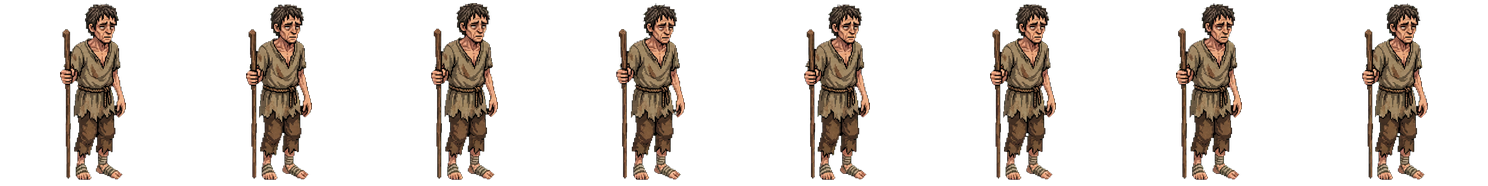
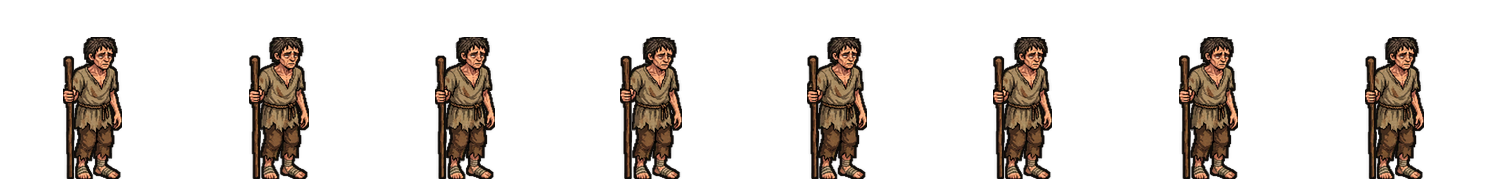
Refine settler sprites and movement behavior

diff --git a/src/rendering/UnitPainter.js b/src/rendering/UnitPainter.js
@@ -279,17 +279,20 @@ export class UnitPainter {
       ? WARRIOR_WALK_FRAME_MS
       : WARRIOR_SPRITE_FRAME_MS;
     const frameIndex = Math.floor(elapsed / frameMs) % frameCount;
+    const facing = getMovementFacing(unit);
 
     ctx.save();
     ctx.imageSmoothingEnabled = true;
+    ctx.translate(x, y);
+    ctx.scale(facing, 1);
     ctx.drawImage(
       spriteSheet,
       frameIndex * WARRIOR_SPRITE_SOURCE_SIZE,
       0,
       WARRIOR_SPRITE_SOURCE_SIZE,
       WARRIOR_SPRITE_SOURCE_SIZE,
-      x - WARRIOR_SPRITE_DRAW_SIZE / 2,
-      y - WARRIOR_SPRITE_DRAW_SIZE + 8,
+      -WARRIOR_SPRITE_DRAW_SIZE / 2,
+      -WARRIOR_SPRITE_DRAW_SIZE + 8,
       WARRIOR_SPRITE_DRAW_SIZE,
       WARRIOR_SPRITE_DRAW_SIZE,
     );
@@ -551,17 +554,20 @@ export class UnitPainter {
       ? SETTLER_WALK_FRAME_MS
       : SETTLER_SPRITE_FRAME_MS;
     const frameIndex = Math.floor(elapsed / frameMs) % frameCount;
+    const facing = getMovementFacing(unit);
 
     ctx.save();
     ctx.imageSmoothingEnabled = true;
+    ctx.translate(x, y);
+    ctx.scale(facing, 1);
     ctx.drawImage(
       spriteSheet,
       frameIndex * SETTLER_SPRITE_SOURCE_SIZE,
       0,
       SETTLER_SPRITE_SOURCE_SIZE,
       SETTLER_SPRITE_SOURCE_SIZE,
-      x - SETTLER_SPRITE_DRAW_SIZE / 2,
-      y - SETTLER_SPRITE_DRAW_SIZE + 8,
+      -SETTLER_SPRITE_DRAW_SIZE / 2,
+      -SETTLER_SPRITE_DRAW_SIZE + 8,
       SETTLER_SPRITE_DRAW_SIZE,
       SETTLER_SPRITE_DRAW_SIZE,
     );
@@ -1217,4 +1223,20 @@ function loadImage(src) {
 
 function isImageReady(image) {
   return Boolean(image?.complete && image.naturalWidth > 0);
+}
+
+function getMovementFacing(unit) {
+  const segment = unit.movementSegment;
+
+  if (!segment) {
+    return unit.facingX || 1;
+  }
+
+  const isoX = segment.to.column - segment.from.column - (segment.to.row - segment.from.row);
+
+  if (isoX === 0) {
+    return unit.facingX || 1;
+  }
+
+  return isoX < 0 ? -1 : 1;
 }

diff --git a/src/units/UnitManager.js b/src/units/UnitManager.js
@@ -19,6 +19,7 @@ const RECOVERY_RADIUS = 2;
 const RECOVERY_TICK_MS = 1800;
 const RECOVERY_PAUSE_MS = 260;
 const SPRITE_WARRIOR_MOVE_MULTIPLIER = 1.55;
+const SPRITE_SETTLER_MOVE_MULTIPLIER = 1.55;
 const ATTACK_OFFSETS = [
   { column: 1, row: 0 },
   { column: -1, row: 0 },
@@ -2004,6 +2005,7 @@ export class UnitManager {
       elapsed: 0,
       duration,
     };
+    unit.facingX = getMovementFacingX(unit.movementSegment);
   }
 
   getNearbyPassableTile(origin, radius) {
@@ -2706,7 +2708,7 @@ function easeInOut(value) {
 }
 
 function getVisualMovementProgress(unit, progress) {
-  if ((unit.body || unit.definition) === "duneVanguard") {
+  if (usesContinuousSpriteMovement(unit)) {
     return progress;
   }
 
@@ -2714,11 +2716,33 @@ function getVisualMovementProgress(unit, progress) {
 }
 
 function getMovementDurationMultiplier(unit) {
-  if ((unit.body || unit.definition) === "duneVanguard") {
+  const body = unit.body || unit.definition;
+
+  if (body === "duneVanguard") {
     return SPRITE_WARRIOR_MOVE_MULTIPLIER;
   }
 
+  if (body === "duneSettler") {
+    return SPRITE_SETTLER_MOVE_MULTIPLIER;
+  }
+
   return 1;
+}
+
+function usesContinuousSpriteMovement(unit) {
+  const body = unit.body || unit.definition;
+
+  return body === "duneVanguard" || body === "duneSettler";
+}
+
+function getMovementFacingX(segment) {
+  const isoX = segment.to.column - segment.from.column - (segment.to.row - segment.from.row);
+
+  if (isoX === 0) {
+    return 1;
+  }
+
+  return isoX < 0 ? -1 : 1;
 }
 
 function lerp(a, b, amount) {

diff --git a/skills/isometric-unit-animation/scripts/prepare_isometric_sheet.py b/skills/isometric-unit-animation/scripts/prepare_isometric_sheet.py
@@ -8,7 +8,7 @@ import json
 from collections import deque
 from pathlib import Path
 
-from PIL import Image, ImageChops
+from PIL import Image, ImageChops, ImageFilter
 
 
 def parse_color(value: str | None) -> tuple[int, int, int] | None:
@@ -100,7 +100,27 @@ def remove_edge_key(image: Image.Image, key: tuple[int, int, int], threshold: in
     return rgba
 
 
-def trim_and_fit(frame: Image.Image, cell: int, baseline_y: int, padding: int) -> Image.Image:
+def add_outline(frame: Image.Image, radius: int, color: tuple[int, int, int, int]) -> Image.Image:
+    if radius <= 0:
+        return frame
+
+    alpha = frame.getchannel("A")
+    outline_alpha = alpha.filter(ImageFilter.MaxFilter(radius * 2 + 1))
+    outline = Image.new("RGBA", frame.size, color)
+    outline.putalpha(outline_alpha)
+    return Image.alpha_composite(outline, frame)
+
+
+def trim_and_fit(
+    frame: Image.Image,
+    cell: int,
+    baseline_y: int,
+    padding: int,
+    max_subject_width: int,
+    max_subject_height: int,
+    outline_radius: int,
+    outline_color: tuple[int, int, int, int],
+) -> Image.Image:
     alpha = frame.getchannel("A")
     bbox = alpha.getbbox()
     out = Image.new("RGBA", (cell, cell), (0, 0, 0, 0))
@@ -108,13 +128,14 @@ def trim_and_fit(frame: Image.Image, cell: int, baseline_y: int, padding: int) -
         return out
 
     crop = frame.crop(bbox)
-    max_w = cell - padding * 2
-    max_h = baseline_y - padding
+    max_w = max_subject_width if max_subject_width > 0 else cell - padding * 2
+    max_h = max_subject_height if max_subject_height > 0 else baseline_y - padding
     scale = min(max_w / crop.width, max_h / crop.height, 1.0)
     fitted = crop.resize(
         (max(1, round(crop.width * scale)), max(1, round(crop.height * scale))),
         Image.Resampling.LANCZOS,
     )
+    fitted = add_outline(fitted, outline_radius, outline_color)
     x = (cell - fitted.width) // 2
     y = baseline_y - fitted.height
     out.alpha_composite(fitted, (x, y))
@@ -224,6 +245,11 @@ def main() -> None:
     parser.add_argument("--baseline-y", type=int, default=180)
     parser.add_argument("--duration", type=int, default=125)
     parser.add_argument("--padding", type=int, default=3)
+    parser.add_argument("--max-subject-width", type=int, default=0)
+    parser.add_argument("--max-subject-height", type=int, default=0)
+    parser.add_argument("--outline-radius", type=int, default=0)
+    parser.add_argument("--outline-color", default="#0e0b09")
+    parser.add_argument("--outline-alpha", type=int, default=235)
     parser.add_argument("--min-component-area", type=int, default=120)
     parser.add_argument("--key", default="")
     parser.add_argument("--key-threshold", type=int, default=90)
@@ -241,12 +267,23 @@ def main() -> None:
         image = image.crop(crop)
 
     explicit_key = parse_color(args.key)
+    outline_rgb = parse_color(args.outline_color) or (14, 11, 9)
+    outline_color = (*outline_rgb, max(0, min(255, args.outline_alpha)))
     transparent_input = border_is_mostly_transparent(image)
     key = explicit_key if explicit_key else (None if transparent_input else guess_border_key(image))
     cleaned = remove_edge_key(image, key, args.key_threshold) if key else image.convert("RGBA")
     fitted_frames = [
         remove_small_components(
-            trim_and_fit(frame, args.cell, args.baseline_y, args.padding),
+            trim_and_fit(
+                frame,
+                args.cell,
+                args.baseline_y,
+                args.padding,
+                args.max_subject_width,
+                args.max_subject_height,
+                args.outline_radius,
+                outline_color,
+            ),
             args.min_component_area,
         )
         for frame in split_frames(cleaned, args.frames)

diff --git a/skills/isometric-unit-animation/SKILL.md b/skills/isometric-unit-animation/SKILL.md
@@ -15,6 +15,7 @@ Use this skill to produce game-ready isometric unit animation sheets that match 
 - Frames per row: `8`
 - Camera: three-quarter isometric game sprite, same facing and scale family as the warrior unit
 - Runtime draw size: usually `66x66` in canvas, so details must read when downscaled
+- Character outline: every accepted unit sheet needs a crisp near-black outside contour like the warrior, plus small interior dark strokes where useful
 - Background while generating: flat chroma key, preferably `#00ff00`, with no floor, shadow, text, UI, frame numbers, or borders
 - Preview format: transparent animated WebP, `110-140ms` per frame
 
@@ -37,13 +38,13 @@ Use the existing unit art as style anchors, then describe the new unit plainly:
 Create a game asset sprite sheet: 8-frame horizontal [ACTION] animation for the same isometric canvas game as the armored warrior reference.
 
 Character: [UNIT DESCRIPTION].
-Style lock: same artist as the warrior unit, hand-painted pixel-art fantasy sprite, crisp dark outlines, compact readable silhouette, muted earth palette, soft directional highlights, tiny high-contrast facial details, no painterly blur, no modern cartoon style, no 3D render.
+Style lock: same artist as the warrior unit, hand-painted pixel-art fantasy sprite, crisp near-black outside outline, compact readable silhouette, muted earth palette, soft directional highlights, tiny high-contrast facial details, no painterly blur, no modern cartoon style, no 3D render.
 Camera and framing: three-quarter isometric unit sprite facing the same direction as the warrior, full body visible in every frame, feet stay on the same baseline, staff/tool stays attached to the hands, centered in each square frame.
 Animation: [ACTION MOTION], 8 distinct frames forming a loop, subtle body weight shift, readable feet/leg movement, no teleporting.
 Output: one row of 8 equal square frames, flat #00ff00 background, no shadow, no floor, no text, no watermark.
 ```
 
-For settler/worker units, keep the design poorer and lighter than the warrior: ragged cloth, thin limbs, dark messy hair or simple hood, bare or wrapped feet, wooden staff/tool, hunched but readable posture.
+For settler/worker units, keep the design poorer, lighter, and visibly shorter than the warrior: ragged cloth, thin limbs, dark messy hair or simple hood, bare or wrapped feet, wooden staff/tool, hunched but readable posture. In the final `186x186` cells, worker alpha bounds should be below the warrior's source height of about `158px`; target roughly `136-145px` tall when the worker is meant to be smaller.
 
 ## Cleanup And Preview
 
@@ -57,7 +58,15 @@ python skills/isometric-unit-animation/scripts/prepare_isometric_sheet.py \
   --frames 8 \
   --cell 186 \
   --baseline-y 180 \
+  --outline-radius 2 \
   --duration 125
+```
+
+For worker/settler sheets, add:
+
+```bash
+  --max-subject-height 142 \
+  --outline-radius 2
 ```
 
 Use `--key "#ff00ff"` if green is part of the character. Use `--crop "left,top,right,bottom"` only when generation adds labels, margins, or extra rows that the automatic split cannot handle.
@@ -71,6 +80,8 @@ Block acceptance when:
 - Any frame is sparse, cropped, or touches the source cell edge unexpectedly.
 - Adjacent frames are nearly identical for a movement animation.
 - The character changes outfit, palette, body proportions, tool, face, or facing direction.
+- The silhouette lacks the warrior-style dark outside contour and blends into the map background.
+- Worker/settler output is as tall as or taller than the warrior once fitted into `186x186` cells.
 - Feet drift vertically in a way that will look like floating once the game shadow is drawn.
 - The WebP preview leaves trails, accumulates frames, or loses transparency.
 

diff --git a/skills/isometric-unit-animation/references/nido-wars-style.md b/skills/isometric-unit-animation/references/nido-wars-style.md
@@ -8,7 +8,7 @@ Use these notes when generating or evaluating unit animation art for this projec
 - Source cell: `186x186`; runtime draw size is about `66x66`, so details must survive downscaling.
 - Facing: three-quarter isometric, body angled slightly to the viewer's right.
 - Silhouette: compact full-body sprite with oversized readable head/torso, planted feet, and no cast shadow in the asset.
-- Linework: crisp dark outline with small interior dark strokes; not clean vector art and not soft painting.
+- Linework: crisp near-black outside outline with small interior dark strokes; not clean vector art and not soft painting. The contour is required because units must separate clearly from busy map tiles.
 - Color: muted fantasy earth tones with controlled highlights. Browns, steel gray, dull blue cloth, leather, warm skin, and off-white metal highlights.
 - Rendering: hand-painted pixel-art feel with hard edges and limited palette, but not strict 1-bit retro pixel art.
 - Motion: subtle but visible frame-to-frame change. Identity stays locked; animation changes pose, not costume.
@@ -20,6 +20,8 @@ Use these notes when generating or evaluating unit animation art for this projec
 - Thin arms and legs, tired face, dark messy hair or simple cloth hood.
 - Simple wooden walking staff, hoe, or hand tool. Keep tools attached across every frame.
 - Hunched, weary posture is welcome, but the top of the head, feet, and staff must stay inside every cell.
+- Must be visibly shorter than the warrior after fitting. In `186x186` source cells, target the worker silhouette at roughly `136-145px` tall, below the warrior's roughly `158px` source height.
+- Must still keep the same near-black outside contour as the warrior; do not accept soft transparent edges that disappear against grass, sand, or forest.
 
 ## Rejection Checklist
 
@@ -29,6 +31,8 @@ Reject or regenerate when the sprite looks like:
 - A portrait illustration pasted into a sprite cell.
 - A top-down or side-view character instead of isometric three-quarter.
 - A soft AI painting with blurred edges.
+- Missing or weak dark outline around the full silhouette.
+- A worker/settler that is as tall as or taller than the armored warrior.
 - A tiny retro sprite with too few details to match the warrior.
 - A sheet where the staff/tool floats, changes length wildly, or swaps hands.
 - A movement loop where only the whole image shifts without actual body animation.
